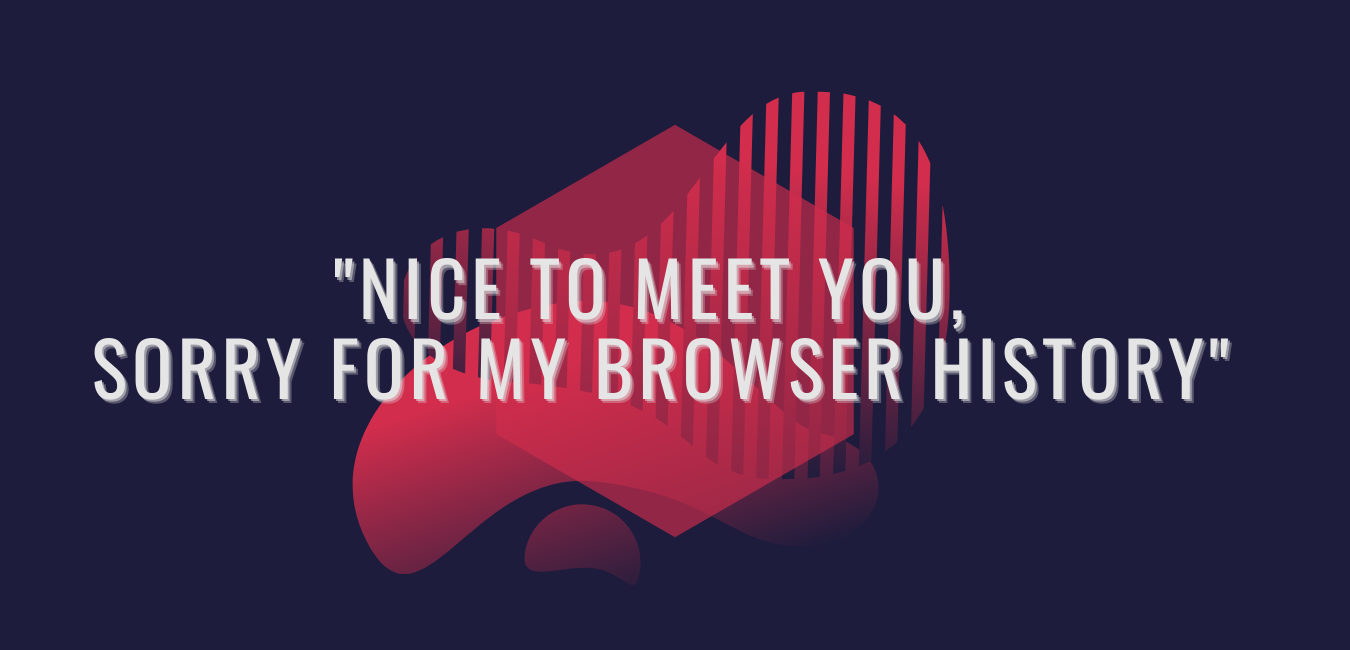
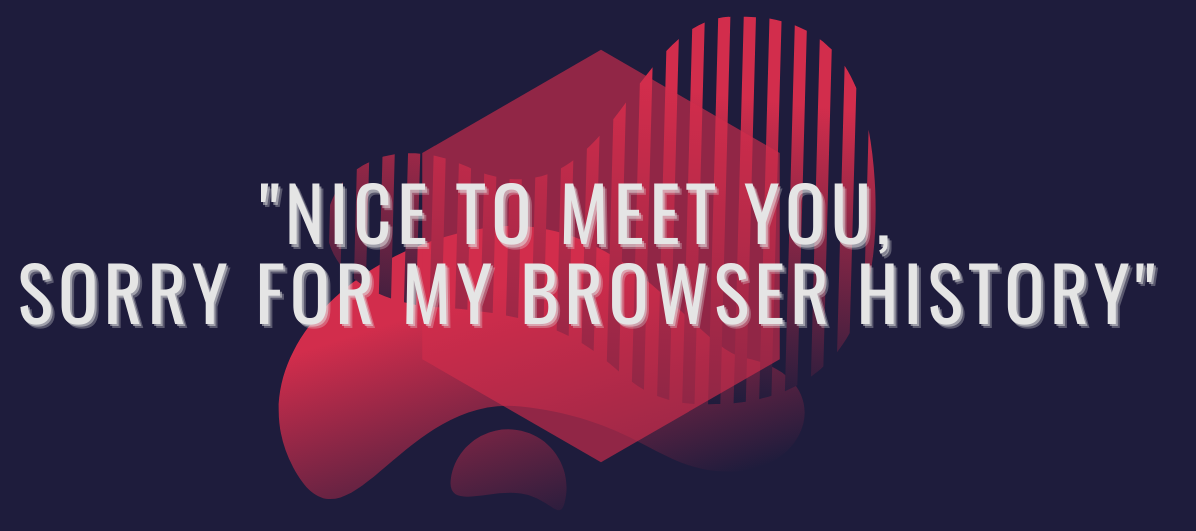
changes to styling

Changed region(s): [[0.0, 0.0301, 0.99, 0.9642]]

diff --git a/src/components/background.js b/src/components/background.js
@@ -36,8 +36,8 @@ const turnVisible2 = keyframes`
 `
 
 const Title = styled.h1`
-  font-size: 4rem;
-  font-family: 'Oswald', sans-serif;
+  font-size: 6rem;
+  font-family: "Oswald", sans-serif;
   width: 100%;
   letter-spacing: 0.1em;
   position: absolute;
@@ -65,11 +65,11 @@ const Card = styled.div`
   margin: 0 auto;
   display: flex;
   flex-direction: column;
-justify-content: space-evenly;
+  justify-content: space-evenly;
   min-height: 100%;
   height: auto !important;
   align-items: center;
-  background-color: #E5E5E5;
+  background-color: #e5e5e5;
   -webkit-box-shadow: 10px 10px 93px 0px rgba(0, 0, 0, 0.75);
   -moz-box-shadow: 10px 10px 93px 0px rgba(0, 0, 0, 0.75);
   box-shadow: 10px 10px 93px 0px rgba(0, 0, 0, 0.75);
@@ -97,7 +97,7 @@ const TextContainer = styled.div`
 `
 
 const PodTitle = styled.h2`
-  font-family: 'Oswald', sans-serif;
+  font-family: "Oswald", sans-serif;
   font-weight: 500;
   letter-spacing: 0.05em;
   text-transform: uppercase;
@@ -109,11 +109,11 @@ const Description = styled.p`
   padding-top: 10px;
   font-size: 0.85rem;
   color: #1e1c3c;
-  font-family: 'Montserrat', sans-serif;
+  font-family: "Montserrat", sans-serif;
 `
 
 const Icons = styled.span`
-z-index: 6;
+  z-index: 6;
   padding-bottom: 20px;
   margin: 0 auto;
 `
@@ -133,8 +133,8 @@ const Icon = styled.a`
 const StyledBackground = styled(BackgroundImage)`
   min-width: 100%;
   min-height: 100%;
-  position: fixed; 
-  top: 0; 
+  position: fixed;
+  top: 0;
   right: 8%;
   margin-right: -120px;
   height: 96vh;
@@ -149,47 +149,52 @@ const StyledBackground = styled(BackgroundImage)`
     right: 12%;
   }
   @media only screen and (max-width: 480px) {
-  height: 60vh;
-  top: 0;
-  right: 17%;
-  margin-right: -80px;
+    height: 60vh;
+    top: 0;
+    right: 17%;
+    margin-right: -80px;
   }
 `
 const ArrowUp = styled.div`
-height: 100px;
-margin-top: -94px;
-margin-bottom: 80px;
-&:before {
-  content: "";
-  position:absolute;
-  left:0px;
-  width:50%;
-  height:100px;
-  background: linear-gradient(to right bottom, transparent 49%, #1e1c3c 50%);
-}
-&:after {
-  content: "";
-  position:absolute;
-  right:0px;
-  width:50%;
-  height:100px;
-  background: linear-gradient(to left bottom, transparent 49%, #1e1c3c 50%);
-}
+  height: 100px;
+  margin-top: -94px;
+  margin-bottom: 80px;
+  &:before {
+    content: "";
+    position: absolute;
+    left: 0px;
+    width: 50%;
+    height: 100px;
+    background: linear-gradient(to right bottom, transparent 49%, #1e1c3c 50%);
+  }
+  &:after {
+    content: "";
+    position: absolute;
+    right: 0px;
+    width: 50%;
+    height: 100px;
+    background: linear-gradient(to left bottom, transparent 49%, #1e1c3c 50%);
+  }
 `
 
 const DarkDivider = styled.div`
-position: relative;
-height: 1px;
-&:before {
-	content: "";
-	position: absolute;
-	top: -20px;
-	left: -5%;
-	right: 0%;
-	width: 110%;
-	height: 1px;
-	background-image: linear-gradient(to right, transparent, #1e1c3c, transparent);
-}
+  position: relative;
+  height: 1px;
+  &:before {
+    content: "";
+    position: absolute;
+    top: -20px;
+    left: -5%;
+    right: 0%;
+    width: 110%;
+    height: 1px;
+    background-image: linear-gradient(
+      to right,
+      transparent,
+      #1e1c3c,
+      transparent
+    );
+  }
 `
 
 const BackgroundSection = ({ className }) => (
@@ -207,23 +212,19 @@ const BackgroundSection = ({ className }) => (
     `}
     render={data => {
       const imageData = data.desktop.childImageSharp.fluid
-  
+
       return (
         <>
-
           <StyledBackground
             Tag="section"
             className={className}
             fluid={imageData}
             alt="Forest with noir feeling."
-          >
-
-          </StyledBackground>
+          ></StyledBackground>
 
           <Title>Midweek Murders</Title>
           <ArrowUp> </ArrowUp>
           <Card>
-
             <Thumbnail>
               <Logo />
             </Thumbnail>
@@ -233,17 +234,21 @@ const BackgroundSection = ({ className }) => (
                 href="https://twitter.com/intent/tweet?url=https%3A%2F%2Fembed.sounder.fm%2Fplay%2F42429"
                 aria-label="Share on twitter"
               >
-                <TwitterWithCircle size="30" aria-hidden="true"/>
+                <TwitterWithCircle size="30" aria-hidden="true" />
               </Icon>
               <Icon
                 className="fb-share-button"
                 href="https://www.facebook.com/sharer/sharer.php?u=https://embed.sounder.fm/play/42429"
                 aria-label="Share on facebook"
               >
-                <FacebookCircle size="30" aria-hidden="true"/>
+                <FacebookCircle size="30" aria-hidden="true" />
               </Icon>
-              <Icon href="https://embed.sounder.fm/play/42429" aria-label="Link to embed this episode" style={{ paddingRight: `0px` }}>
-                <Share size="30" aria-hidden="true"/>
+              <Icon
+                href="https://embed.sounder.fm/play/42429"
+                aria-label="Link to embed this episode"
+                style={{ paddingRight: `0px` }}
+              >
+                <Share size="30" aria-hidden="true" />
               </Icon>
             </Icons>
             <AudioPlayer url="https://embed.sounder.fm/play/42429" />

diff --git a/src/components/contact.js b/src/components/contact.js
@@ -1,4 +1,3 @@
-
 import React from "react"
 import styled, { keyframes } from "styled-components"
 import {
@@ -10,71 +9,71 @@ import Image from "./getInTouch"
 import Wrapper from "./wrapper"
 import Article from "./article"
 
-
 const Contact = () => (
-    <Wrapper>
-      <Thumbnail>
-        <Image />
-      </Thumbnail>
-      <Article name="Email" slogan="midweekmurders@gmail.com">
-        <Text>
-          Send us your true crime stories, interesting headlines, or case
-          suggestions.
-        </Text>
-      </Article>
-      <Article name="Twitter" slogan="@midweekmurders">
-        <Text>
-          <SocialLink
-            href="https://twitter.com/midweekmurders/"
-            target="_blank"
-            rel="noopener noreferrer"
-            aria-label="Follow us on Twitter"
-          >
-            <TwitterWithCircle
-              size="22"
-              style={{ marginRight: `8px`, transform: `translateY(-1.5px)` }}
-              aria-hidden="true"
-            />
-          </SocialLink>
-          Social media ain't our thing, but feel free to try.
-        </Text>
-      </Article>
-      <Article name="Instagram" slogan="@midweekmurders" >
-        <Text>
-          <SocialLink
-            href="https://www.instagram.com/midweekmurders/"
-            target="_blank"
-            rel="noopener noreferrer"
-            aria-label="Follow us on Instagram"
-          >
-            <InstagramWithCircle
-              size="22"
-              style={{ marginRight: `8px`, transform: `translateY(-1.5px)` }}
-              aria-hidden="true"
-            />
-          </SocialLink>
-          There might be photos of Ollie (the dog) or Bodil (the cat) on here,
-          but no promises.
-        </Text>
-      </Article>
-      <Article name="YouTube" slogan="Midweek Murders" >
-        <Text>
-          <SocialLink
-            href="https://www.youtube.com/channel/UCqJw512scIqd_a56nUxY2Vw"
-            target="_blank"
-            rel="noopener noreferrer"
-            aria-label="Subscribe on YouTube"
-          >
-            <YoutubeWithCircle
-              size="22"
-              style={{ marginRight: `8px`, transform: `translateY(-1.5px)` }}
-              aria-hidden="true"
-            />
-          </SocialLink>
-          Midweek Murders is now on YouTube as well. In case you want to, I don't know, listen on YouTube?
-        </Text>
-      </Article>
-    </Wrapper>
+  <Wrapper>
+    <Thumbnail>
+      <Image />
+    </Thumbnail>
+    <Article name="Email" slogan="midweekmurders@gmail.com">
+      <Text>
+        Send us your true crime stories, interesting headlines, or case
+        suggestions.
+      </Text>
+    </Article>
+    <Article name="Twitter" slogan="@midweekmurders">
+      <Text>
+        <SocialLink
+          href="https://twitter.com/midweekmurders/"
+          target="_blank"
+          rel="noopener noreferrer"
+          aria-label="Follow us on Twitter"
+        >
+          <TwitterWithCircle
+            size="22"
+            style={{ marginRight: `8px`, transform: `translateY(-1.5px)` }}
+            aria-hidden="true"
+          />
+        </SocialLink>
+        Social media ain't our thing, but feel free to try.
+      </Text>
+    </Article>
+    <Article name="Instagram" slogan="@midweekmurders">
+      <Text>
+        <SocialLink
+          href="https://www.instagram.com/midweekmurders/"
+          target="_blank"
+          rel="noopener noreferrer"
+          aria-label="Follow us on Instagram"
+        >
+          <InstagramWithCircle
+            size="22"
+            style={{ marginRight: `8px`, transform: `translateY(-1.5px)` }}
+            aria-hidden="true"
+          />
+        </SocialLink>
+        There might be photos of Ollie (the dog) or Bodil (the cat) on here, but
+        no promises.
+      </Text>
+    </Article>
+    <Article name="YouTube" slogan="Midweek Murders">
+      <Text>
+        <SocialLink
+          href="https://www.youtube.com/channel/UCqJw512scIqd_a56nUxY2Vw"
+          target="_blank"
+          rel="noopener noreferrer"
+          aria-label="Subscribe on YouTube"
+        >
+          <YoutubeWithCircle
+            size="22"
+            style={{ marginRight: `8px`, transform: `translateY(-1.5px)` }}
+            aria-hidden="true"
+          />
+        </SocialLink>
+        Midweek Murders is now on YouTube as well. In case you want to, I don't
+        know, listen on YouTube?
+      </Text>
+    </Article>
+  </Wrapper>
 )
 
 const turnVisible = keyframes`
@@ -87,10 +86,11 @@ const turnVisible = keyframes`
 `
 const Thumbnail = styled.div`
   position: relative;
-  top: -50px;
+  top: -10px;
   left: 6%;
   height: auto;
   display: block;
+  filter: opacity(86%);
   width: 40%;
   min-width: 300px;
   overflow: hidden;
@@ -105,11 +105,10 @@ const SocialLink = styled.a`
   }
 `
 const Text = styled.p`
-  color: #E5E5E5;
+  color: #e5e5e5;
   font-size: 0.85rem;
   text-align: left;
-  font-family: 'Montserrat', sans-serif;
+  font-family: "Montserrat", sans-serif;
 `
 
 export default Contact
-

diff --git a/src/components/comingSoon.js b/src/components/comingSoon.js
@@ -5,7 +5,7 @@ import Img from "gatsby-image"
 const Image = () => {
   const data = useStaticQuery(graphql`
     query {
-      placeholderImage: file(relativePath: { eq: "comingSoon.png" }) {
+      placeholderImage: file(relativePath: { eq: "comingSoon2.png" }) {
         childImageSharp {
           fluid(quality: 90, maxWidth: 300) {
             ...GatsbyImageSharpFluid_withWebp
